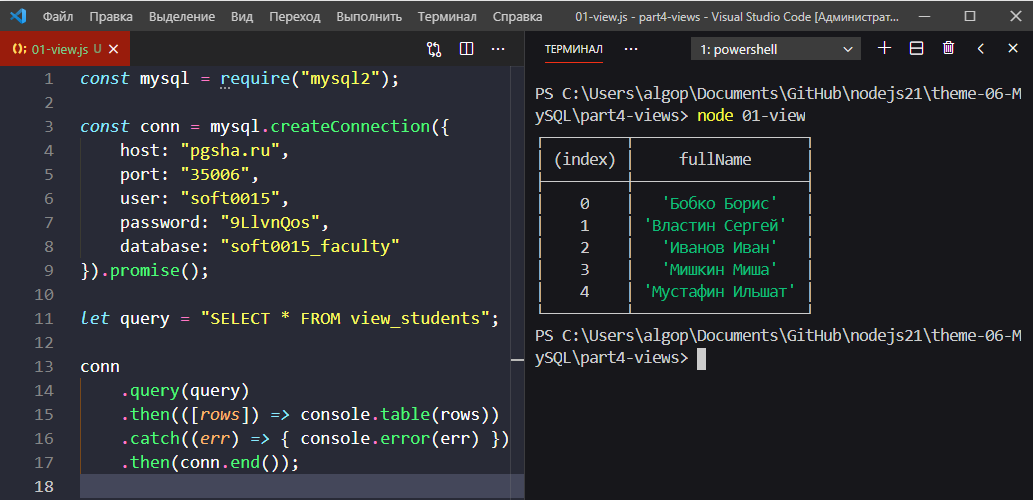
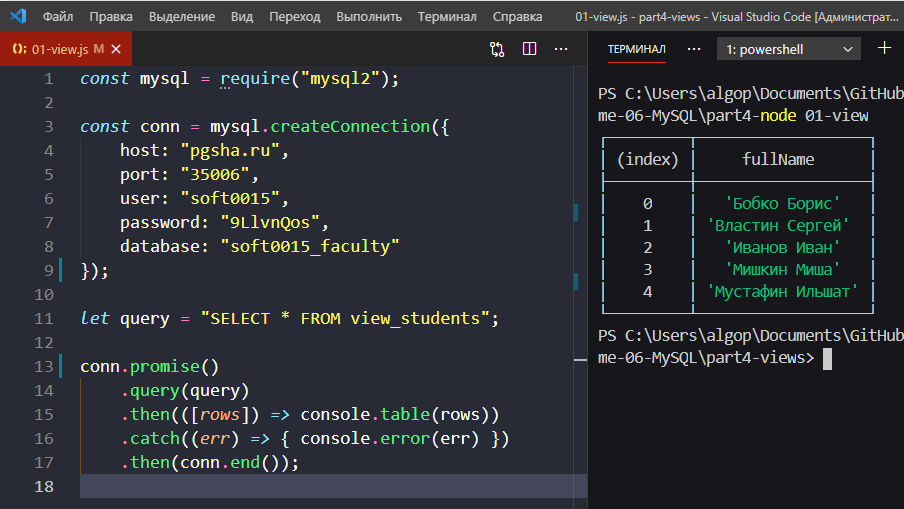
up

diff --git a/theme-06-MySQL/part4-views/01-view.js b/theme-06-MySQL/part4-views/01-view.js
@@ -6,11 +6,11 @@ const conn = mysql.createConnection({
     user: "soft0015",
     password: "9LlvnQos",
     database: "soft0015_faculty"
-}).promise();
+});
 
 let query = "SELECT * FROM view_students";
 
-conn
+conn.promise()
     .query(query)
     .then(([rows]) => console.table(rows))
     .catch((err) => { console.error(err) })

diff --git a/theme-06-MySQL/part4-views/readme.md b/theme-06-MySQL/part4-views/readme.md
@@ -98,7 +98,7 @@ SELECT * FROM table_1
 
 ![struct_groups](./images/struct_groups.png)  
 
-а также установил внешний ключ для связи дочерней b родительской таблиц:  
+а также установил внешний ключ для связи дочерней и родительской таблиц:  
 ![foreign_key](./images/foreign_key.png)  
 
 После чего в Дизайнере можно увидеть схему базы данных примерно в таком виде:  
@@ -164,11 +164,11 @@ const conn = mysql.createConnection({
     user: "soft0015",
     password: "9LlvnQos",
     database: "soft0015_faculty"
-}).promise();
+});
 
 let query = "SELECT * FROM view_students";
 
-conn
+conn.promise()
     .query(query)
     .then(([rows]) => console.table(rows))
     .catch((err) => { console.error(err) })
